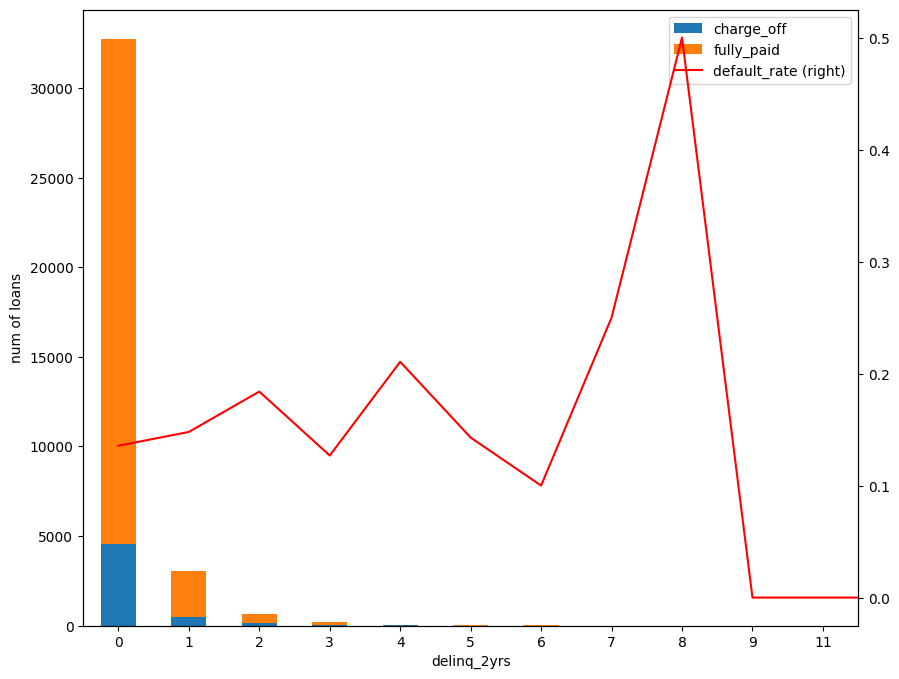
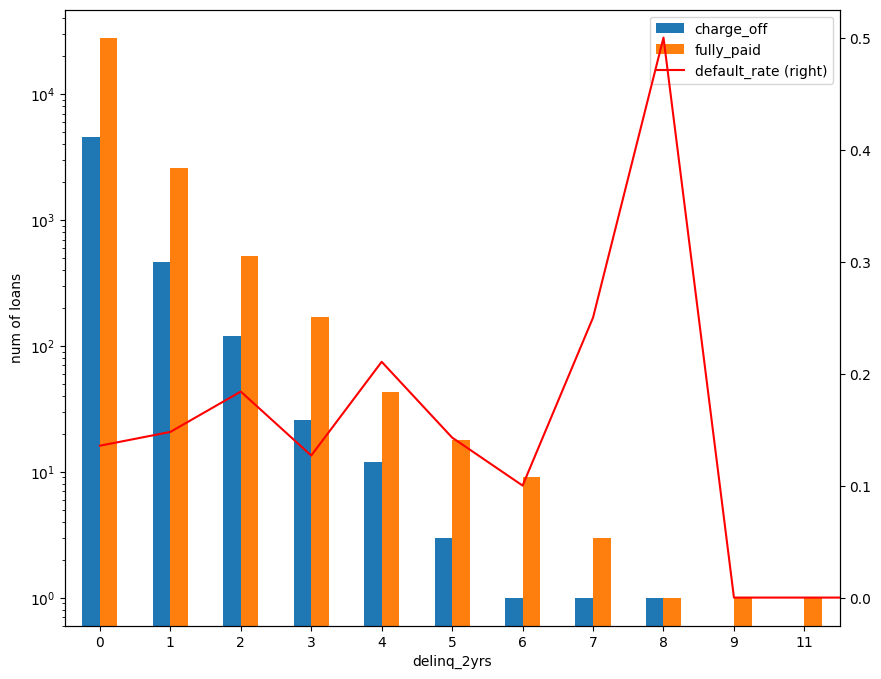
Built site for gh-pages

diff --git a/CaseStudy_Loans_EDA.html b/CaseStudy_Loans_EDA.html
@@ -950,6 +950,12 @@ LoanAmount &lt; 98%ile and Annual income &lt; 98%ile: num of rows: 36409
 <p><img src="CaseStudy_Loans_EDA_files/figure-html/cell-28-output-2.png" class="img-fluid"></p>
 </div>
 </div>
+<section id="summary" class="level4">
+<h4 class="anchored" data-anchor-id="summary">Summary</h4>
+<p>75 percentile of states are having default rate of around 0.15, so combining both visualizations, following states could be explored for more segmentation, * FL * HI * NV * TN * SD</p>
+<p>to understand what’s causing the defaults at higher rate.</p>
+<p>– Include in insight</p>
+</section>
 </section>
 <section id="distribution-of-average-loan-amount-and-annual-income" class="level3">
 <h3 class="anchored" data-anchor-id="distribution-of-average-loan-amount-and-annual-income">Distribution of Average loan amount and Annual Income</h3>
@@ -1008,8 +1014,8 @@ LoanAmount &lt; 98%ile and Annual income &lt; 98%ile: num of rows: 36409
 <p><img src="CaseStudy_Loans_EDA_files/figure-html/cell-32-output-2.png" class="img-fluid"></p>
 </div>
 </div>
-<section id="summary" class="level4">
-<h4 class="anchored" data-anchor-id="summary">Summary</h4>
+<section id="summary-1" class="level4">
+<h4 class="anchored" data-anchor-id="summary-1">Summary</h4>
 <p>Verified status does not have much impact on the probability of default. We need to dig deeper to confirm this fact / bias.</p>
 <div class="cell" data-tags="[]" data-execution_count="32">
 <div class="sourceCode cell-code" id="cb49"><pre class="sourceCode python code-with-copy"><code class="sourceCode python"><span id="cb49-1"><a href="#cb49-1" aria-hidden="true" tabindex="-1"></a>ax <span class="op">=</span> loan_data_df[loan_data_df.loan_status<span class="op">==</span><span class="st">'Charged Off'</span>].groupby([<span class="st">'loan_amnt_range'</span>]).agg(</span>
@@ -1046,21 +1052,27 @@ LoanAmount &lt; 98%ile and Annual income &lt; 98%ile: num of rows: 36409
 <p><img src="CaseStudy_Loans_EDA_files/figure-html/cell-35-output-1.png" class="img-fluid"></p>
 </div>
 </div>
-<div class="cell" data-tags="[]" data-execution_count="35">
+<div class="cell" data-tags="[]" data-execution_count="50">
 <div class="sourceCode cell-code" id="cb52"><pre class="sourceCode python code-with-copy"><code class="sourceCode python"><span id="cb52-1"><a href="#cb52-1" aria-hidden="true" tabindex="-1"></a>ax <span class="op">=</span> loan_data_df.groupby([<span class="st">'delinq_2yrs'</span>]).agg(</span>
 <span id="cb52-2"><a href="#cb52-2" aria-hidden="true" tabindex="-1"></a>                                         charge_off<span class="op">=</span>(<span class="st">'loan_status'</span>, <span class="kw">lambda</span> x: (x<span class="op">==</span><span class="st">'Charged Off'</span>).<span class="bu">sum</span>()),</span>
 <span id="cb52-3"><a href="#cb52-3" aria-hidden="true" tabindex="-1"></a>                                         fully_paid<span class="op">=</span>(<span class="st">'loan_status'</span>, <span class="kw">lambda</span> x: (x<span class="op">==</span><span class="st">'Fully Paid'</span>).<span class="bu">sum</span>()),</span>
 <span id="cb52-4"><a href="#cb52-4" aria-hidden="true" tabindex="-1"></a>                                         <span class="co"># current=('loan_status', lambda x: (x=='Current').sum()),</span></span>
-<span id="cb52-5"><a href="#cb52-5" aria-hidden="true" tabindex="-1"></a>                                        ).plot.bar(stacked<span class="op">=</span><span class="va">True</span>, xlabel<span class="op">=</span><span class="st">'delinq in 2yrs'</span>, ylabel<span class="op">=</span><span class="st">'num of loans'</span>, figsize<span class="op">=</span>(<span class="dv">10</span>, <span class="dv">8</span>))</span>
+<span id="cb52-5"><a href="#cb52-5" aria-hidden="true" tabindex="-1"></a>                                        ).plot.bar(stacked<span class="op">=</span><span class="va">False</span>, xlabel<span class="op">=</span><span class="st">'delinq in 2yrs'</span>, ylabel<span class="op">=</span><span class="st">'num of loans'</span>, logy<span class="op">=</span><span class="va">True</span>, figsize<span class="op">=</span>(<span class="dv">10</span>, <span class="dv">8</span>))</span>
 <span id="cb52-6"><a href="#cb52-6" aria-hidden="true" tabindex="-1"></a></span>
 <span id="cb52-7"><a href="#cb52-7" aria-hidden="true" tabindex="-1"></a>loan_data_df.groupby([<span class="st">'delinq_2yrs'</span>]).agg(default_rate<span class="op">=</span>(<span class="st">'loan_status'</span>, <span class="kw">lambda</span> x: (x<span class="op">==</span><span class="st">'Charged Off'</span>).<span class="bu">sum</span>() <span class="op">/</span> x.count())).plot.line(secondary_y<span class="op">=</span><span class="st">'default_rate'</span>, ax<span class="op">=</span>ax, color<span class="op">=</span><span class="st">'r'</span>)</span></code><button title="Copy to Clipboard" class="code-copy-button"><i class="bi"></i></button></pre></div>
-<div class="cell-output cell-output-display" data-execution_count="35">
+<div class="cell-output cell-output-display" data-execution_count="50">
 <pre><code>&lt;Axes: &gt;</code></pre>
 </div>
 <div class="cell-output cell-output-display">
 <p><img src="CaseStudy_Loans_EDA_files/figure-html/cell-36-output-2.png" class="img-fluid"></p>
 </div>
 </div>
+</section>
+<section id="summary-2" class="level4">
+<h4 class="anchored" data-anchor-id="summary-2">Summary</h4>
+<p>In the current dataset, the measure : delinquency in last 2 years is not a very useful information because even for zero deliquant borrowers, there 10% of loans are charged off.</p>
+<p>Yes when the no. of delinquency instances increase, the ratio does got up but the number of loans are so less, we can not conclude accurately.</p>
+<p>It seems that Lending club is already considering this measure while approving the loans and hardly 2% to 3% of total loans are given when there is one of more delinquency instances.</p>
 <div class="cell" data-tags="[]" data-execution_count="36">
 <div class="sourceCode cell-code" id="cb54"><pre class="sourceCode python code-with-copy"><code class="sourceCode python"><span id="cb54-1"><a href="#cb54-1" aria-hidden="true" tabindex="-1"></a><span class="co"># 'installment_to_month_inc'</span></span>
 <span id="cb54-2"><a href="#cb54-2" aria-hidden="true" tabindex="-1"></a>ax <span class="op">=</span> loan_data_df.groupby([<span class="st">'open_to_total_acc'</span>]).agg(</span>
